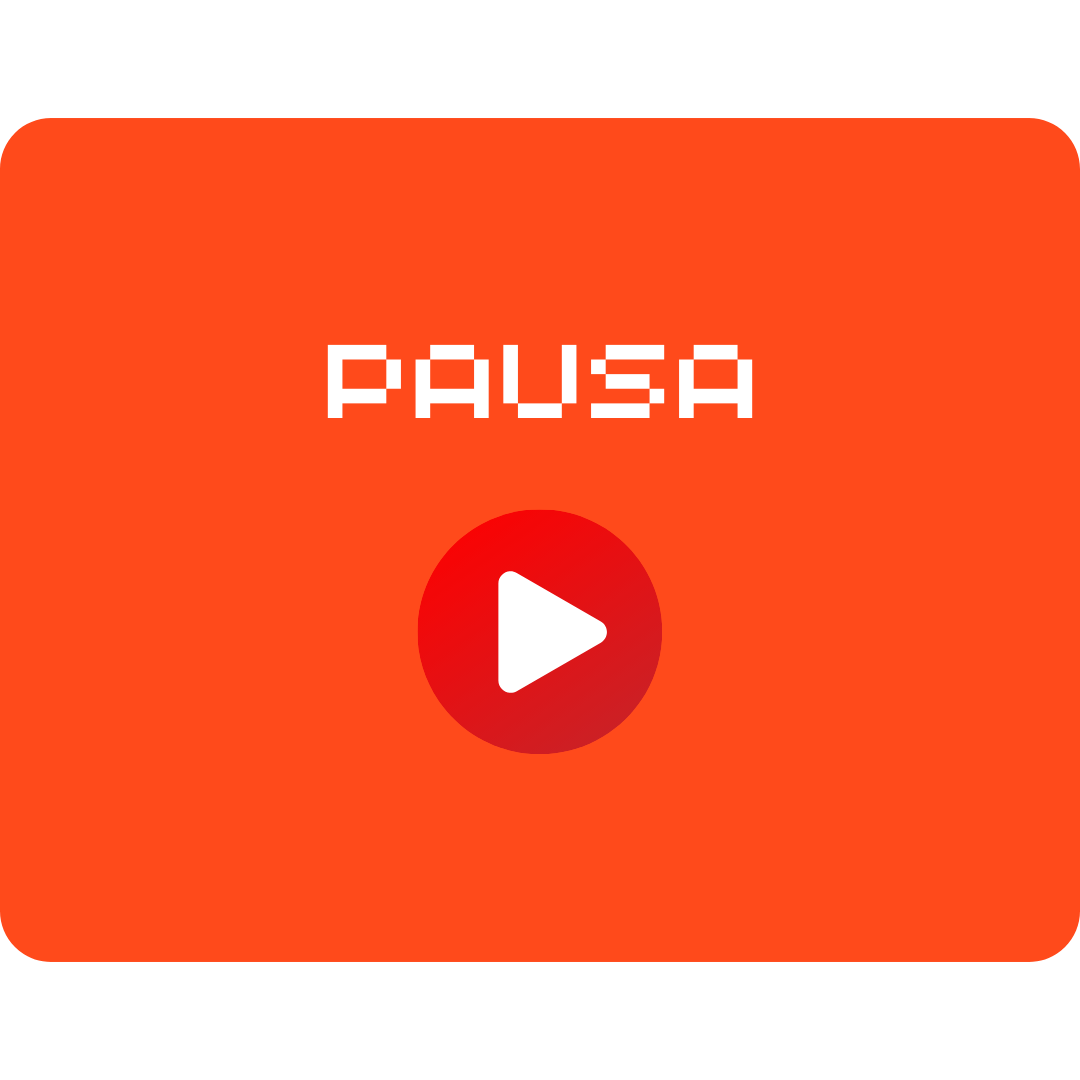
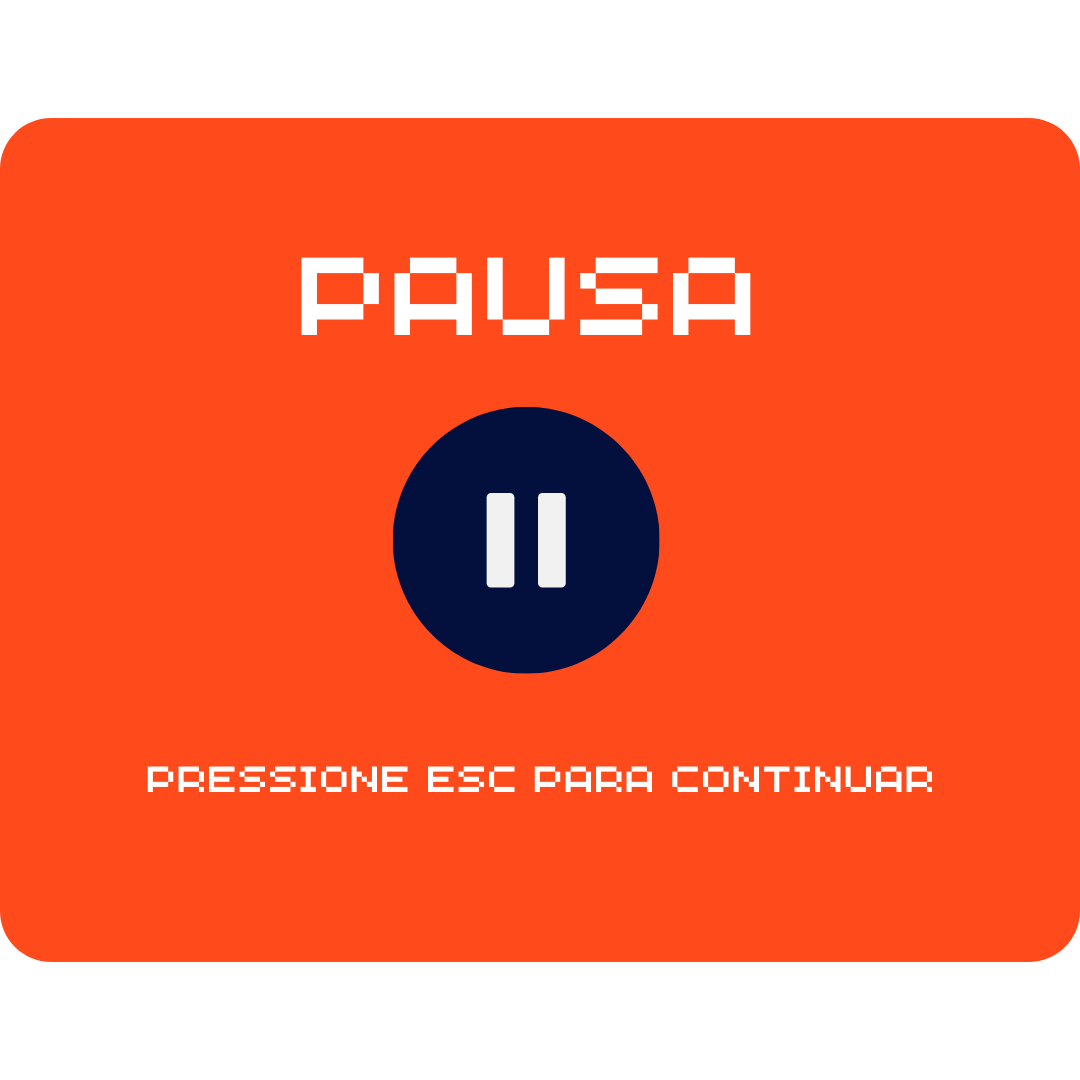
mudei config e pausa

Changed region(s): [[0.1222, 0.2139, 0.8861, 0.7333]]

diff --git a/public/html/jogo.html b/public/html/jogo.html
@@ -135,7 +135,7 @@
                 <a href="login.html"><img src="../images/Home.png" alt="Home"></a>
                 <a href="Ranking.html"> <img src="../images/Ranking.png" alt="Ranking" width="100px" height="100px"></a>
                 <a href="atualizacao.html"> <img src="../images/Login.png" alt="Atualização" width="100px" height="100px"></a>
-                <a id="pausa" href=""><img src="../images/pausa.png" alt="pausa"></a>
+                <a id="conf" href=""><img src="../images/TETRIS (1).png" alt="pausa"></a>
         </div>
     </div>
 </main>
